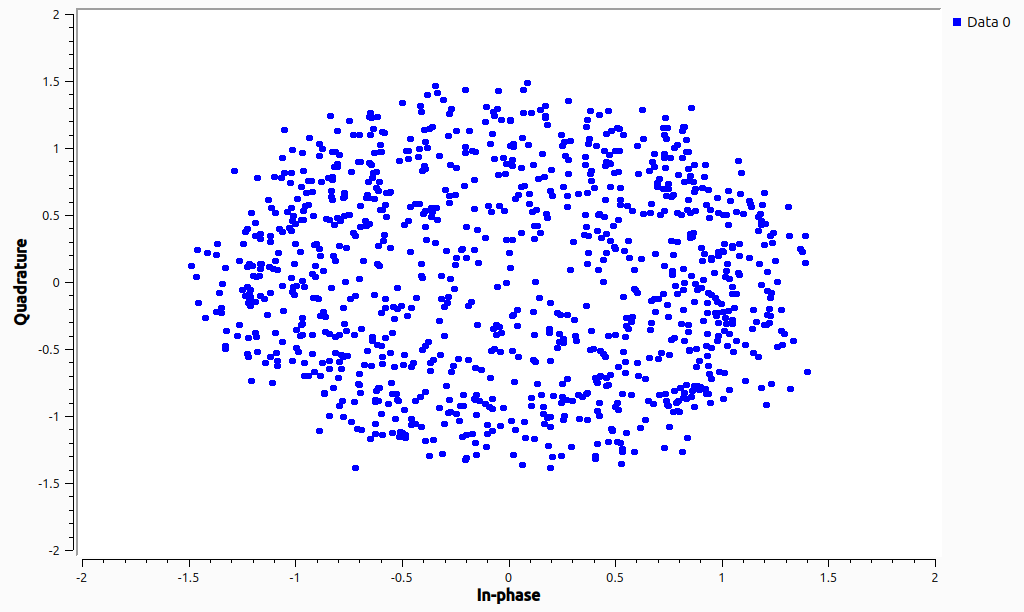
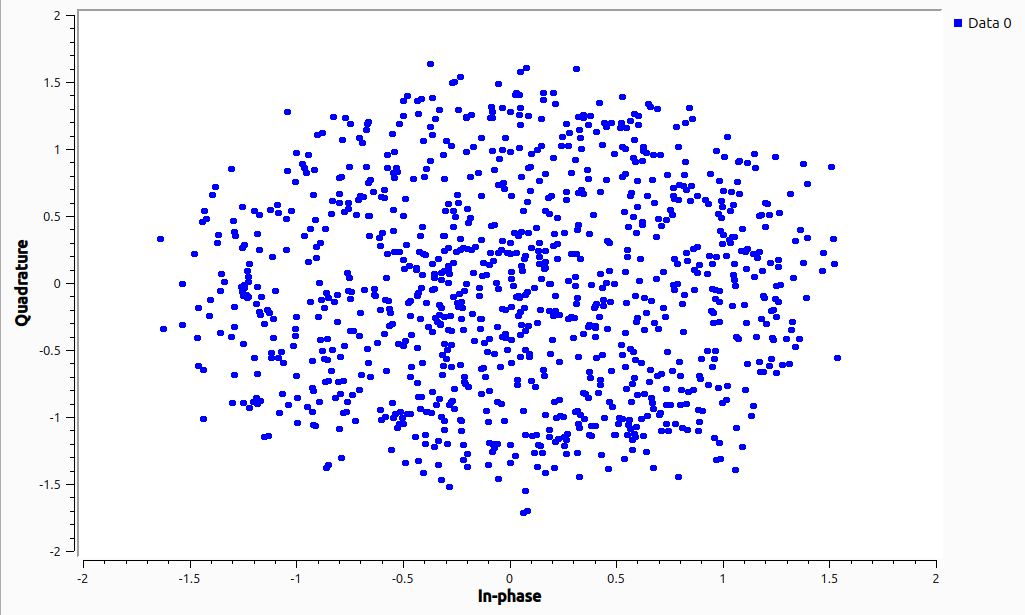
Working on the results

diff --git a/latex/final_report.tex b/latex/final_report.tex
@@ -147,6 +147,7 @@ We can write our base band signal with a frequency offset $f_o$ as follows:
 
 \begin{equation}
 	\hat{f}_o = \frac{1}{MTK}\text{arg}\left|\sum_{k=0}^{K-1}{r^M(k)e^{-j2{\pi}kT/K}}\right|
+	\label{eq::cfo_estimate}
 \end{equation}
 
 \noindent Then, we can feed a negated copy of the coarse frequency offset ($-\hat{f}_o$) into an NCO and remove the coarse frequency offset. Following the work of \cite{collins_2018_softwaredefined}, the coarse frequency offset correction is placed at the start of the chain to ensure that it operates on the largest possible bandwidth.
@@ -406,7 +407,15 @@ We can perform a similar procedure to identify the MFP. However, to avoid false 
 
 \section{Results}
 
-The XM radio signal is transmitted through a square-root raised cosine filter, which limit the signal bandwidth [ADD A CITATION HERE]. Because of this, the receiver needs a matching square root raised cosine filter. The root-raised cosine filter is a type II Nyquist filter, which results in zero intersymbol interference when the received signal is sampled at the midpoint of each symbol period. When the PlutoSDR samples the received signal, this condition is not strictly enforced. This results in significant spreading in our constellation as illustrated in Figure \ref{fig::constellation_no_timing_comp}.
+In this section, we highlight the results from each of our experiments. We start by analyzing the QPSK demodulator. The spectrum of the received signal before and after applying the root raised cosine (RRC) filter is shown in Figure \ref{fig::root_raised_cosine_spectrum}.
+
+\begin{figure}[H]
+	\centerline{\fbox{\includegraphics[width=0.5\textwidth]{root_raised_cosine_spectrum.png}}}
+	\caption{Spectrum Before and After Apply Root-Raised Cosine Filter}
+	\label{fig::root_raised_cosine_spectrum}
+\end{figure}
+
+\noindent As previously discussed, the RRC filter is a type II Nyquist filter, so it should result in zero ISI when the signal is sampled at the midpoint of the symbol transitions. In practice, we cannot enforce this timing, and we get the constellation shown in Figure \ref{fig::constellation_no_timing_comp}.
 
 \begin{figure}[H]
 	\centerline{\fbox{\includegraphics[width=0.5\textwidth]{constellation_no_timing_comp.png}}}
@@ -414,7 +423,7 @@ The XM radio signal is transmitted through a square-root raised cosine filter, w
 	\label{fig::constellation_no_timing_comp}
 \end{figure}
 
-We can correct for this timing offset using a timing synchronization block. For this purpose, we use a GNU radio symbol sync block. This symbol sync block can be subdivided into 4 blocks: interpolator, timing error detector, loop filter, and controller. The interpolator applies a fractional delay. The timing error detector measures the timing offset. The loop filter stabilizes the process. And the controller manages the interpolation process. For our work, we specifically choose a Gardner Timing Error detector because it is robust to frequency errors. Our constellation after timing compensation is shown in Figure \ref{fig::constellation_after_timing_comp}.
+\noindent We perform timing compensation to correct for the imperfect sampling. To do this we leverage GNU radio's symbol sync block, which contains an interpolator, timing error detector, loop filter, and controller. For our work, we specifically configure the block to use a Gardner Timing Error detector because it is robust to frequency errors. Our constellation after timing compensation is shown in Figure \ref{fig::constellation_after_timing_comp}.
 
 \begin{figure}[H]
 	\centerline{\fbox{\includegraphics[width=0.5\textwidth]{constellation_after_timing_comp.png}}}
@@ -422,13 +431,37 @@ We can correct for this timing offset using a timing synchronization block. For 
 	\label{fig::constellation_after_timing_comp}
 \end{figure}
 
-After timing compensation, we see that the amplitude of the constellation has stabilized. However, the resulting constellation is a ring. This occurs because after phase and frequency errors. The phase error leads to a static tilt of the constellation and the frequency offset causes our constellation to rotate. To correctly demodulate the signal, we must also remove the frequency offset in the signal. We do this in 2 stages: coarse frequency compensation and fine frequency compensation. We implement the coarse frequency compensation algorithm using a custom GNU radio python block. This block raises our received data to the fourth power to remove the QPSK modulation. Then, it takes an FFT of the resulting signal. The peak index of the FFT provides us with an estimate of the coarse frequency error. When solving for the error we also must divide the frequency error by 4 to account for raising the received data to the 4th power prior to the FFT. The FFT output and the corresponding frequency error for one frame of data is shown in Figure \ref{fig::cfo_frequency_estimate}. Examining the Figure, we observe a frequency error of roughly 15 kHz [CHECK SIGN].
+After timing compensation, we see that the amplitude of the constellation has stabilized. However, the resulting constellation is a ring. This occurs because after phase and frequency errors. The phase error leads to a static tilt of the constellation and the frequency offset causes our constellation to rotate. To correctly demodulate the signal, we must also remove the frequency offset in the signal. We do this in 2 stages: coarse frequency compensation and fine frequency compensation. We implement coarse frequency compensation in a custom GNU radio python block, which implements the algorithm given in Equation \ref{eq::cfo_estimate}. The FFT output and the corresponding coarse frequency offset (CFO) are shown in Figure \ref{fig::cfo_frequency_estimate}. Examining the Figure, we observe a frequency error of roughly 15 kHz.
 
 \begin{figure}[H]
 	\centerline{\fbox{\includegraphics[width=0.5\textwidth]{cfo_frequency_estimate.png}}}
 	\caption{Coarse Frequency FFT Output}
 	\label{fig::cfo_frequency_estimate}
 \end{figure}
+
+% The XM radio signal is transmitted through a square-root raised cosine filter, which limit the signal bandwidth [ADD A CITATION HERE]. Because of this, the receiver needs a matching square root raised cosine filter. The root-raised cosine filter is a type II Nyquist filter, which results in zero intersymbol interference when the received signal is sampled at the midpoint of each symbol period. When the PlutoSDR samples the received signal, this condition is not strictly enforced. This results in significant spreading in our constellation as illustrated in Figure \ref{fig::constellation_no_timing_comp}.
+
+%\begin{figure}[H]
+%	\centerline{\fbox{\includegraphics[width=0.5\textwidth]{constellation_no_timing_comp.png}}}
+%	\caption{Received Constellation Before Timing Synchronization}
+%	\label{fig::constellation_no_timing_comp}
+%\end{figure}
+
+%We can correct for this timing offset using a timing synchronization block. For this purpose, we use a GNU radio symbol sync block. This symbol sync block can be subdivided into 4 blocks: interpolator, timing error detector, loop filter, and controller. The interpolator applies a fractional delay. The timing error detector measures the timing offset. The loop filter stabilizes the process. And the controller manages the interpolation process. For our work, we specifically choose a Gardner Timing Error detector because it is robust to frequency errors. Our constellation after timing compensation is shown in Figure \ref{fig::constellation_after_timing_comp}.
+
+%\begin{figure}[H]
+%	\centerline{\fbox{\includegraphics[width=0.5\textwidth]{constellation_after_timing_comp.png}}}
+%	\caption{Received Constellation After Timing Synchronization}
+%	\label{fig::constellation_after_timing_comp}
+%\end{figure}
+
+%After timing compensation, we see that the amplitude of the constellation has stabilized. However, the resulting constellation is a ring. This occurs because after phase and frequency errors. The phase error leads to a static tilt of the constellation and the frequency offset causes our constellation to rotate. To correctly demodulate the signal, we must also remove the frequency offset in the signal. We do this in 2 stages: coarse frequency compensation and fine frequency compensation. We implement the coarse frequency compensation algorithm using a custom GNU radio python block. This block raises our received data to the fourth power to remove the QPSK modulation. Then, it takes an FFT of the resulting signal. The peak index of the FFT provides us with an estimate of the coarse frequency error. When solving for the error we also must divide the frequency error by 4 to account for raising the received data to the 4th power prior to the FFT. The FFT output and the corresponding frequency error for one frame of data is shown in Figure \ref{fig::cfo_frequency_estimate}. Examining the Figure, we observe a frequency error of roughly 15 kHz [CHECK SIGN].
+
+%\begin{figure}[H]
+%	\centerline{\fbox{\includegraphics[width=0.5\textwidth]{cfo_frequency_estimate.png}}}
+%	\caption{Coarse Frequency FFT Output}
+%	\label{fig::cfo_frequency_estimate}
+%\end{figure}
 
 The coarse frequency compensation is limited by the FFT size and the rate at which the frequency drifts. We add an additional fine frequency compensation block to resolve the rest of the error. We use the GNU radio Costas Loop block for this analysis. The GNU radio Costas Loop closely resembles the timing synchronization block. It includes a phase error detector, a loop filter, a direct digital synthesizer and a phase rotator.
 The phase rotator adjusts the phase of the received signal by multiplying it with a phasor. The phase error detector then detects the phase error, which is fed into a loop filter for stabilization. Finally the Direct Digital Synthesizer creates a coherent phasor which removes residual phase and frequency offsets. The constellation after fine frequency compensation is shown in Figure \ref{fig::constellation_after_fine_carrier_comp}.
